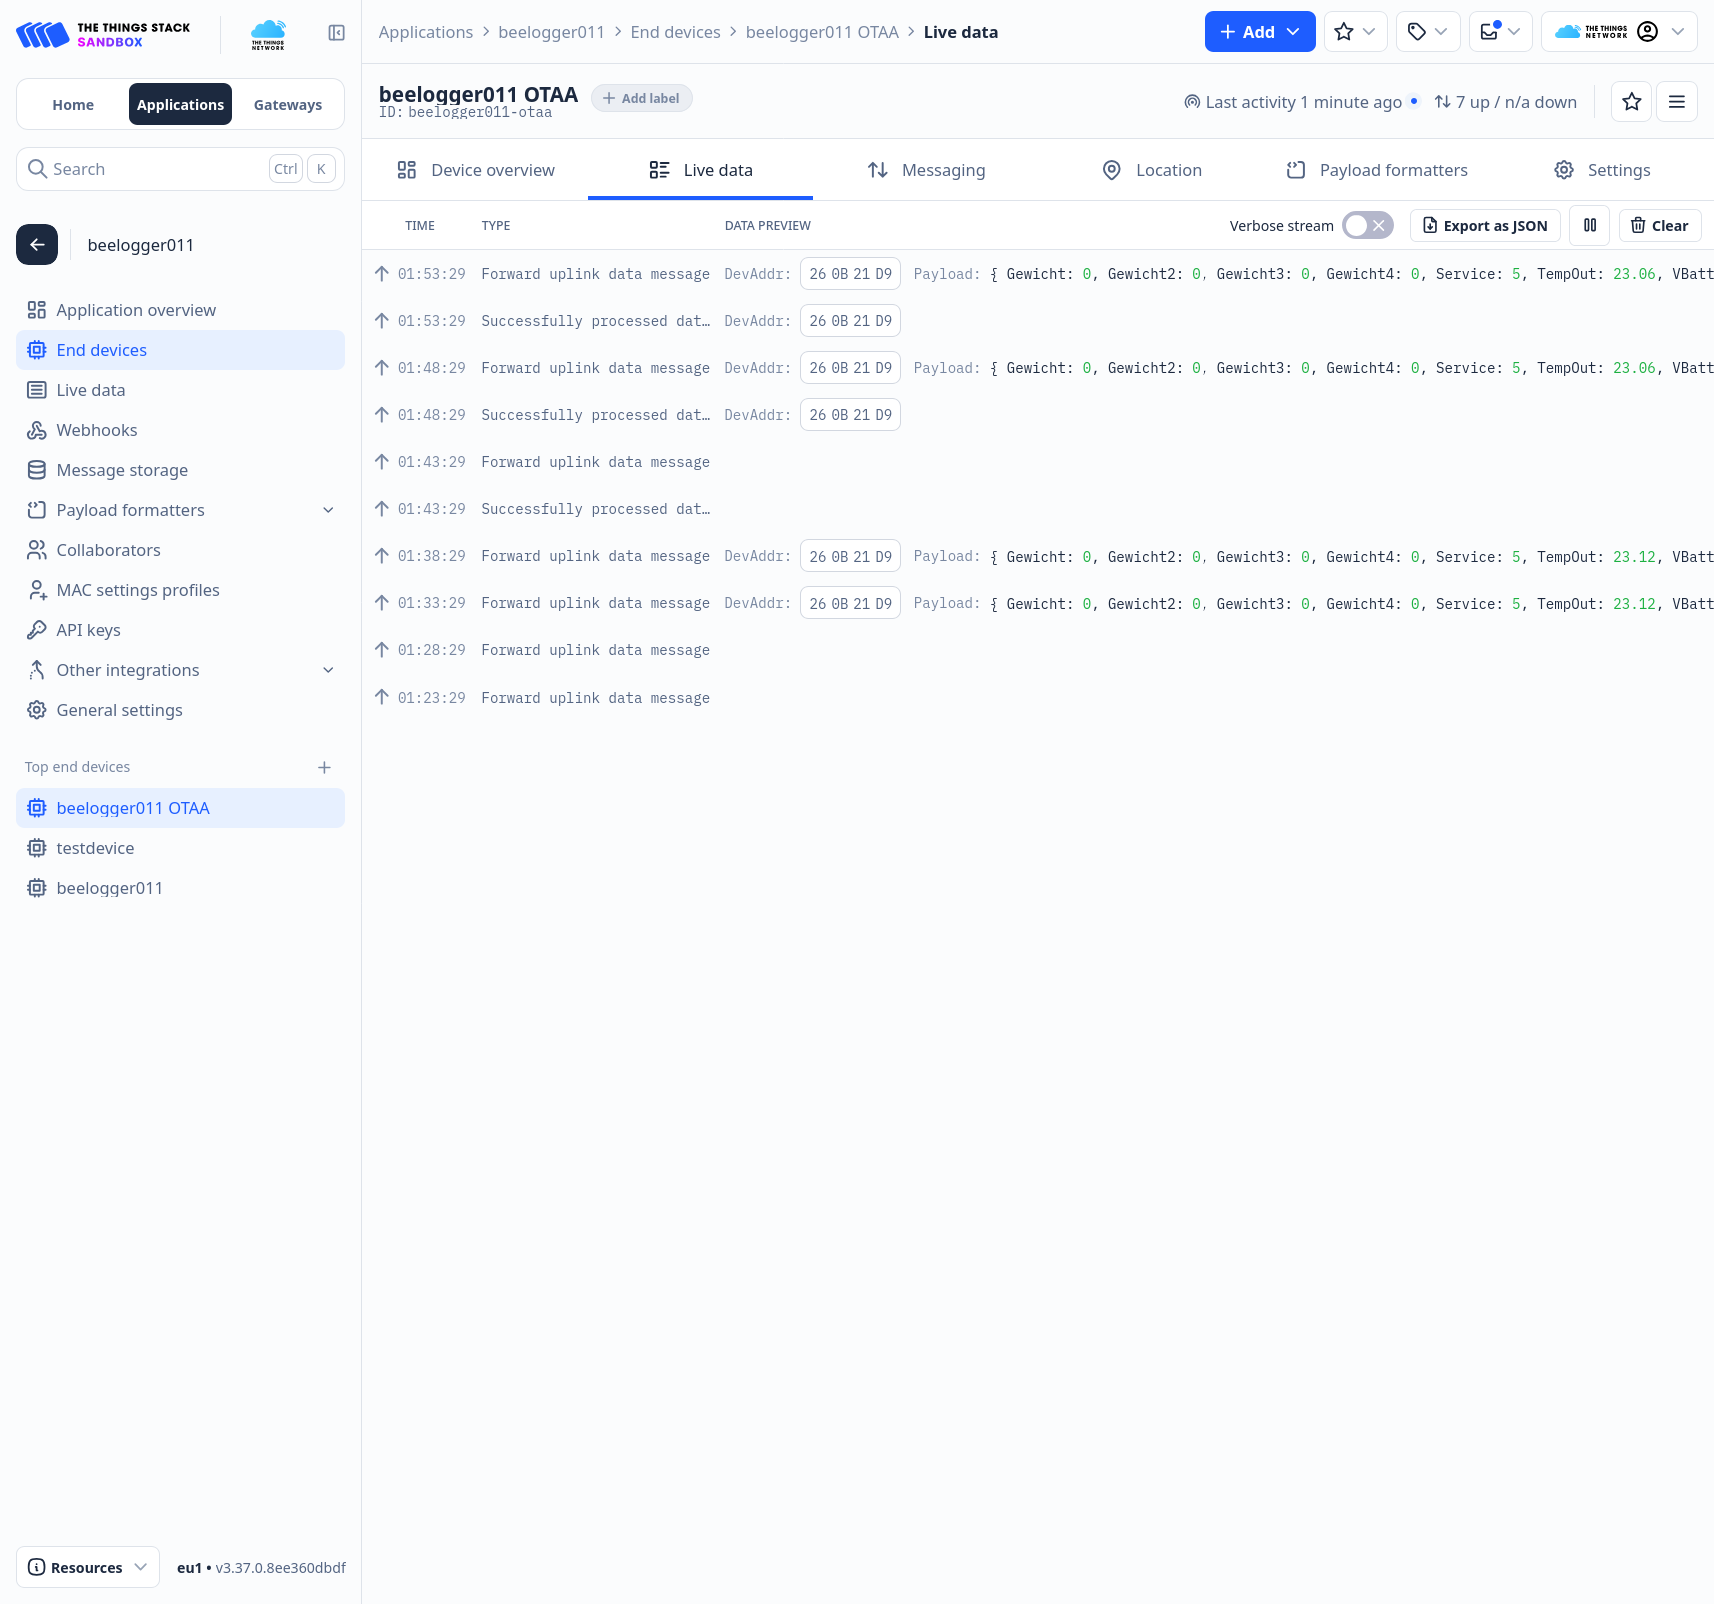
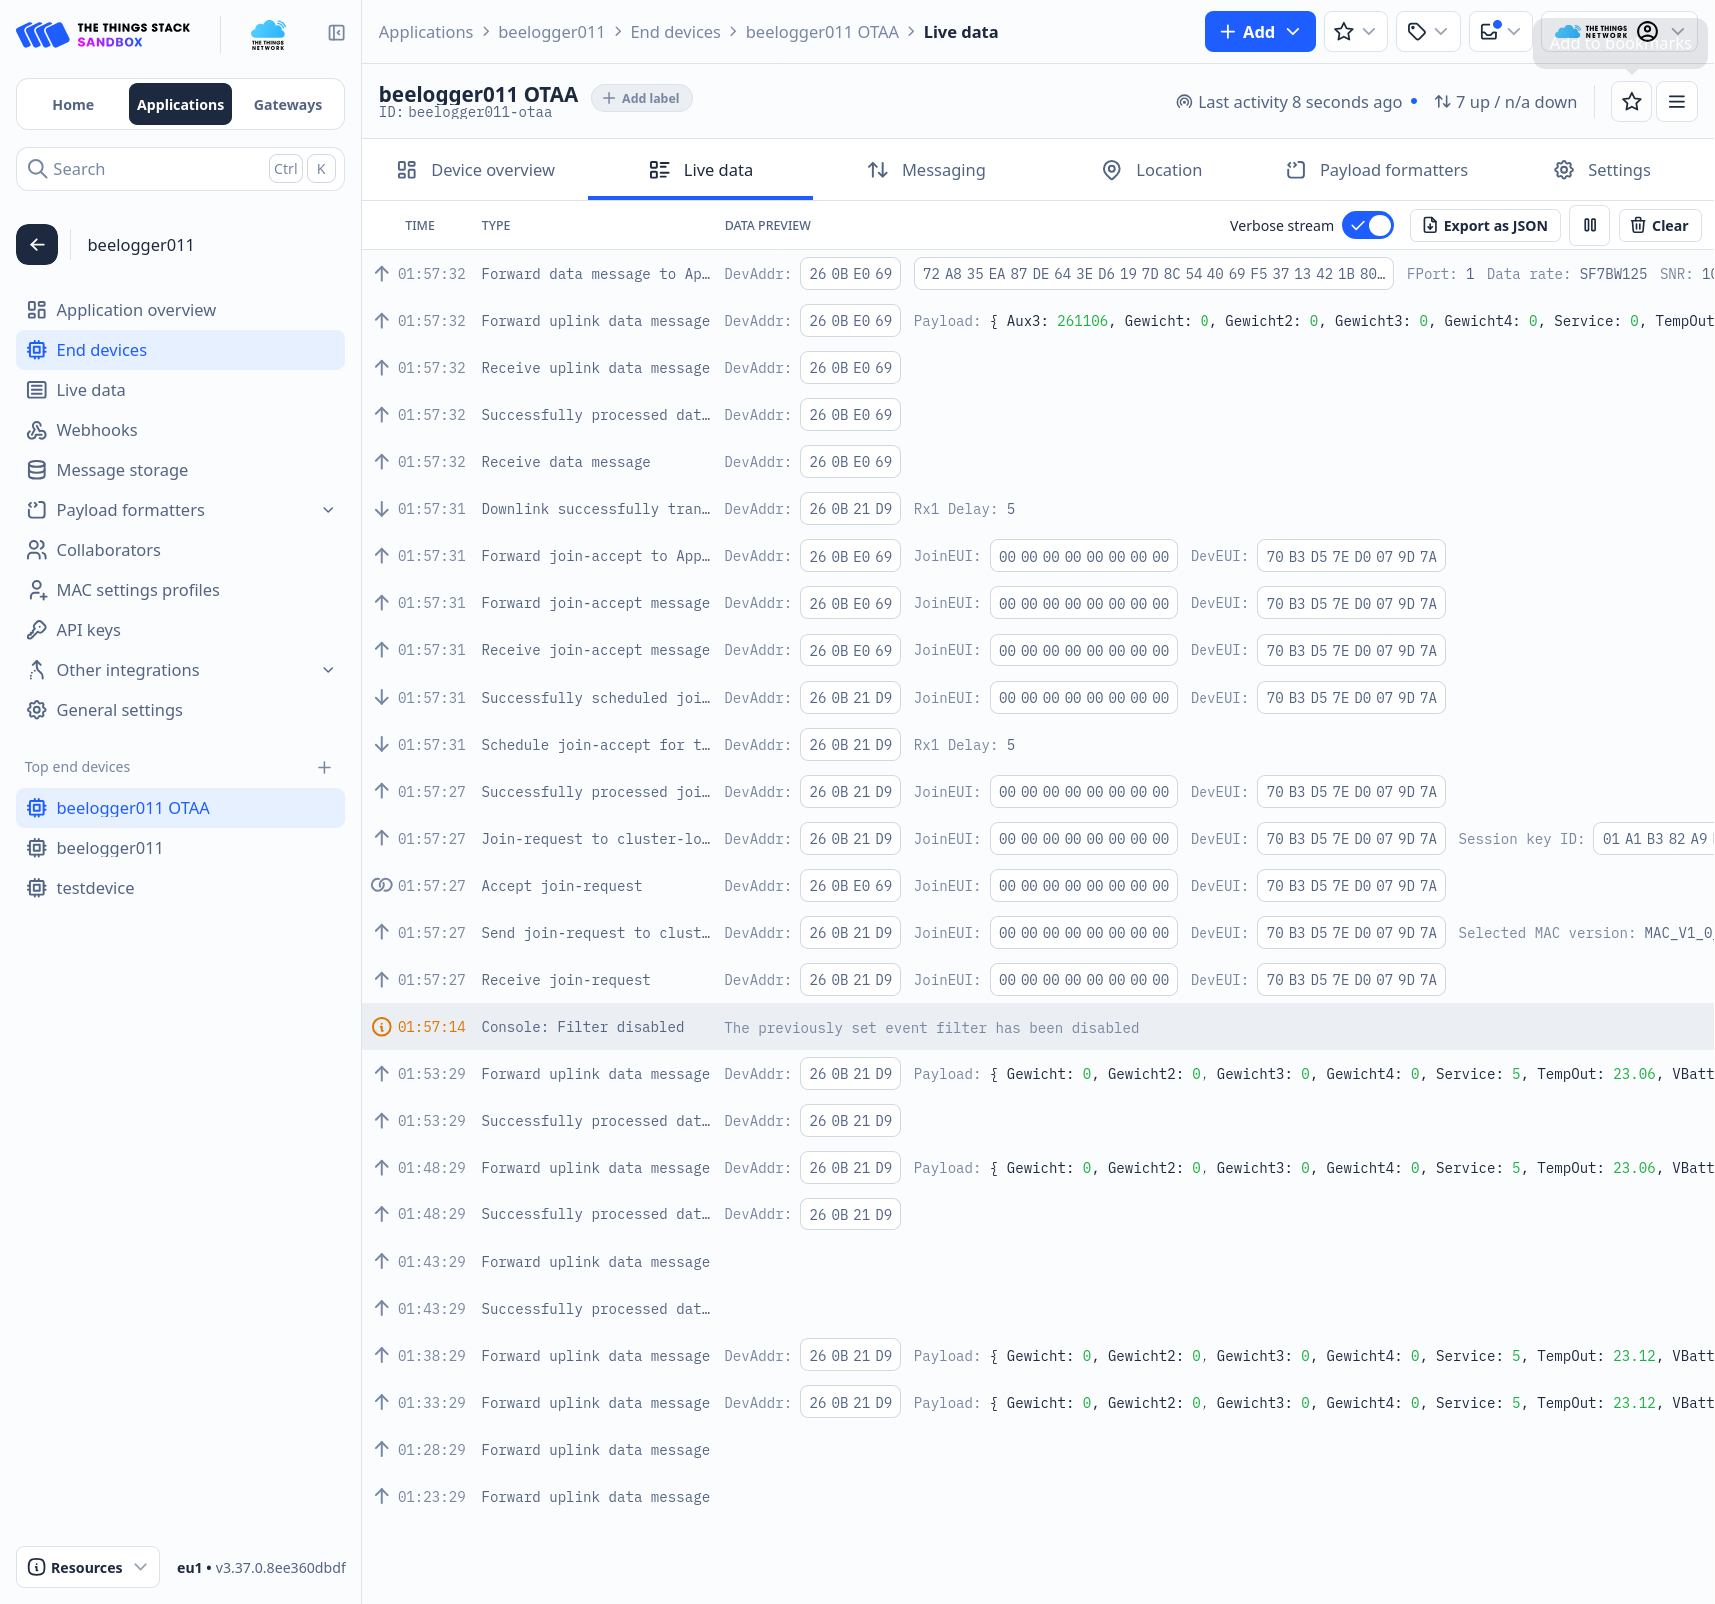
TTN-Anleitung fertig: Bild 05 ABP (Schlüssel geschwärzt), 08 mit OTAA-Join; Planung abgehakt

diff --git a/docs/ttn_anleitung.md b/docs/ttn_anleitung.md
@@ -33,7 +33,7 @@ Konsole: <https://eu1.cloud.thethings.network/console> (Cluster Europa).
 
 ### 2a. ABP (`#define LORA_OTAA 0`)
 
-1. Device address, NwkSKey, AppSKey mit **Generate** erzeugen. End device ID = Name des Loggers.
+1. Device address, NwkSKey, AppSKey mit **Generate** erzeugen (DevEUI ist bei ABP egal). End device ID = Name des Loggers. Im Bild ist „Use network's default MAC settings“ noch an: abwählen, siehe Tabelle oben.
    ![ABP-Schlüssel](ttn/bilder/05_abp_keys.png)
 2. In `src/Config_LORA.h` eintragen, beide Schlüssel in **MSB**-Reihenfolge (Schalter `<>` in der Konsole, Format „C-style“):
    - `DEVADDR = 0x260B….` (Device address)
@@ -76,7 +76,7 @@ Braucht einen API-Key in `~/.config/ttn/konto.key` (siehe Abschnitt 6). Der Bloc
 Bauen und flashen: README und [`flashen.md`](flashen.md). Danach:
 
 1. **Serielle Konsole** (9600 Baud): Startzeile mit Name und DevAddr. OTAA: nach dem ersten Start Join (einige Sekunden), danach steht die neue DevAddr in der Startzeile.
-2. **TTN → Gerät → Live data**: OTAA zeigt „Accept join-request“, dann den ersten Uplink mit FCnt 0. ABP: Uplinks direkt. Live data zeigt nur die letzten Meldungen; den Join sieht man nur, wenn die Seite beim Einschalten des Loggers offen ist. Im Bild: Uplinks mit dekodierter Payload (Gewicht, TempOut, VBatt …) alle 5 min.
+2. **TTN → Gerät → Live data**: OTAA zeigt „Accept join-request“, dann den ersten Uplink mit FCnt 0. ABP: Uplinks direkt. Live data zeigt nur die letzten Meldungen; den Join sieht man nur, wenn die Seite beim Einschalten des Loggers offen ist. Im Bild (von unten nach oben): Uplinks alle 5 min, Akku ab und an, „Receive join-request“, „Accept join-request“ mit neuer DevAddr, nach etwa 4 s der erste Uplink mit `Aux3: 261106` (Firmware-Kennung nach dem Einschalten).
    ![Live data](ttn/bilder/08_live_data.png)
    Beispiele, wie es aussehen muss: [`ttn/beispiele/`](ttn/beispiele/) (OTAA-Join: `2026-11-06_beelogger08_otaa_live_data_join.json`).
 3. **Skript** prüft die wichtigen Werte (ohne Schlüssel):

diff --git a/docs/planung_otaa_downlink.md b/docs/planung_otaa_downlink.md
@@ -206,7 +206,7 @@ Jede Sitzung startet mit dieser Datei und endet mit einem Eintrag unter „Verla
 - [x] (06.11., README) Abschnitt **Fair Use Policy** (TTN: 30 s Airtime/Tag, 10 Downlinks/Tag) mit Paketgrößen und Intervallen; Material aus Wiki `projekte:beelogger_doku` übernehmen.
 - [x] (06.11. Nutzer: **nein**, bleiben im Wiki) Entscheiden: DokuWiki-Seiten zu beelogger (Payload/Bitaufteilung, Verschlüsselung, TTN 06/06a) ins Repo übernehmen (Markdown, ohne Privates)?
 - [ ] Downlink aus der Server-Software: Doku für beelogger-Entwickler, wie ihr Server per TTN-API Downlinks schickt (`POST /api/v3/as/applications/<app>/devices/<dev>/down/push`, API-Key mit „Write downlink application traffic“, FPort 10, Base64-Payload) – Beispiel curl/PHP.
-- [ ] TTN-Anleitung mit Screenshots je Variante (siehe Paket 4).
+- [x] TTN-Anleitung mit Screenshots je Variante (siehe Paket 4). 07.11.: `docs/ttn_anleitung.md`, Bilder 01–09.
 - [x] (README, 06.11.) Doku (Nutzer 06.11.): Vor- und Nachteile OTAA vs. ABP erklären – warum es beide Varianten gibt.
 - [ ] Doku (Nutzer 06.11.): In Beispielen echte Live-Daten aus der TTN-Konsole zeigen (z. B. Uplink von beelogger08), damit neue Nutzer sehen, wie die Daten dort aussehen müssen. Dazu passende Auszüge aus der seriellen Konsole (Startzeile, Join, Uplink, TX done).
 
